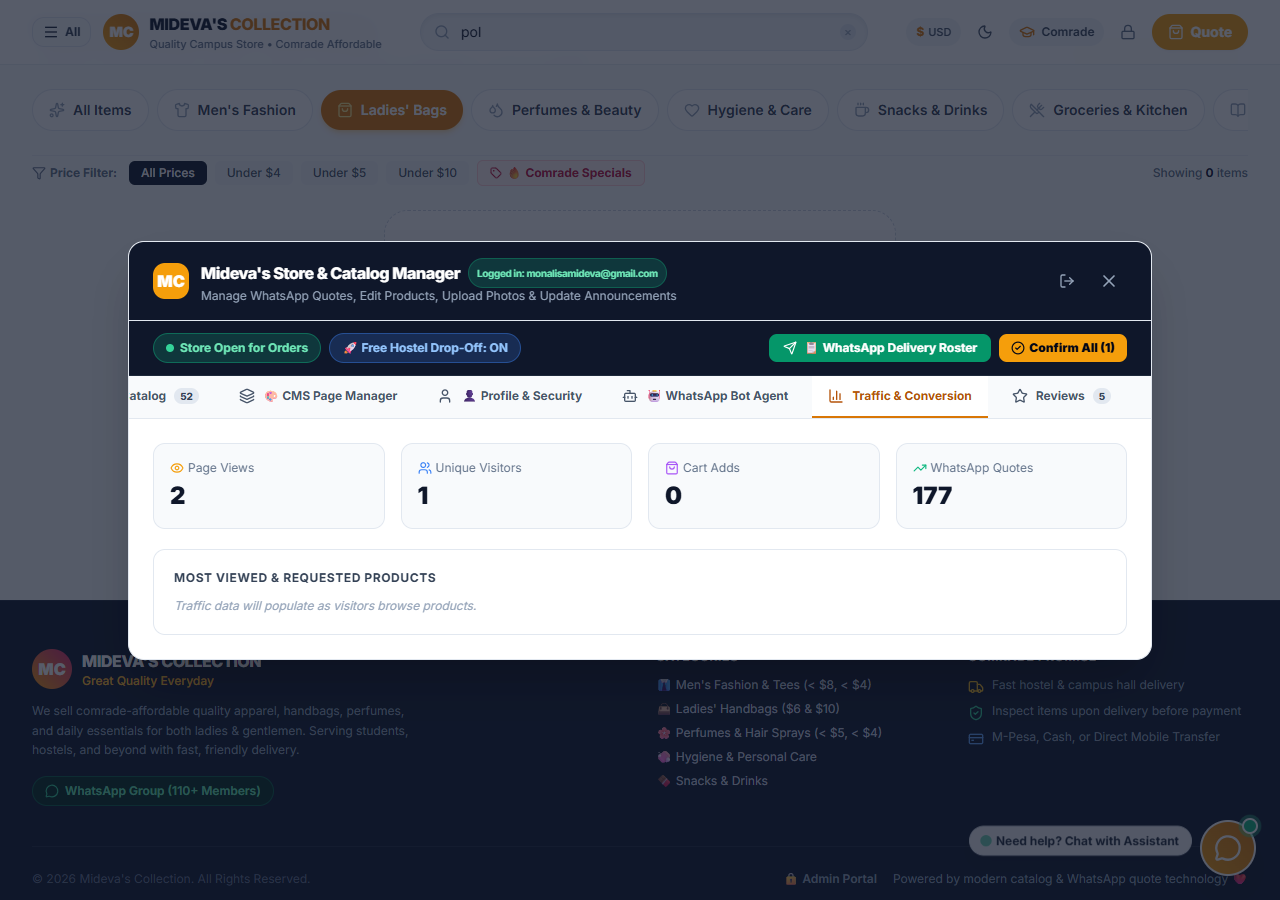
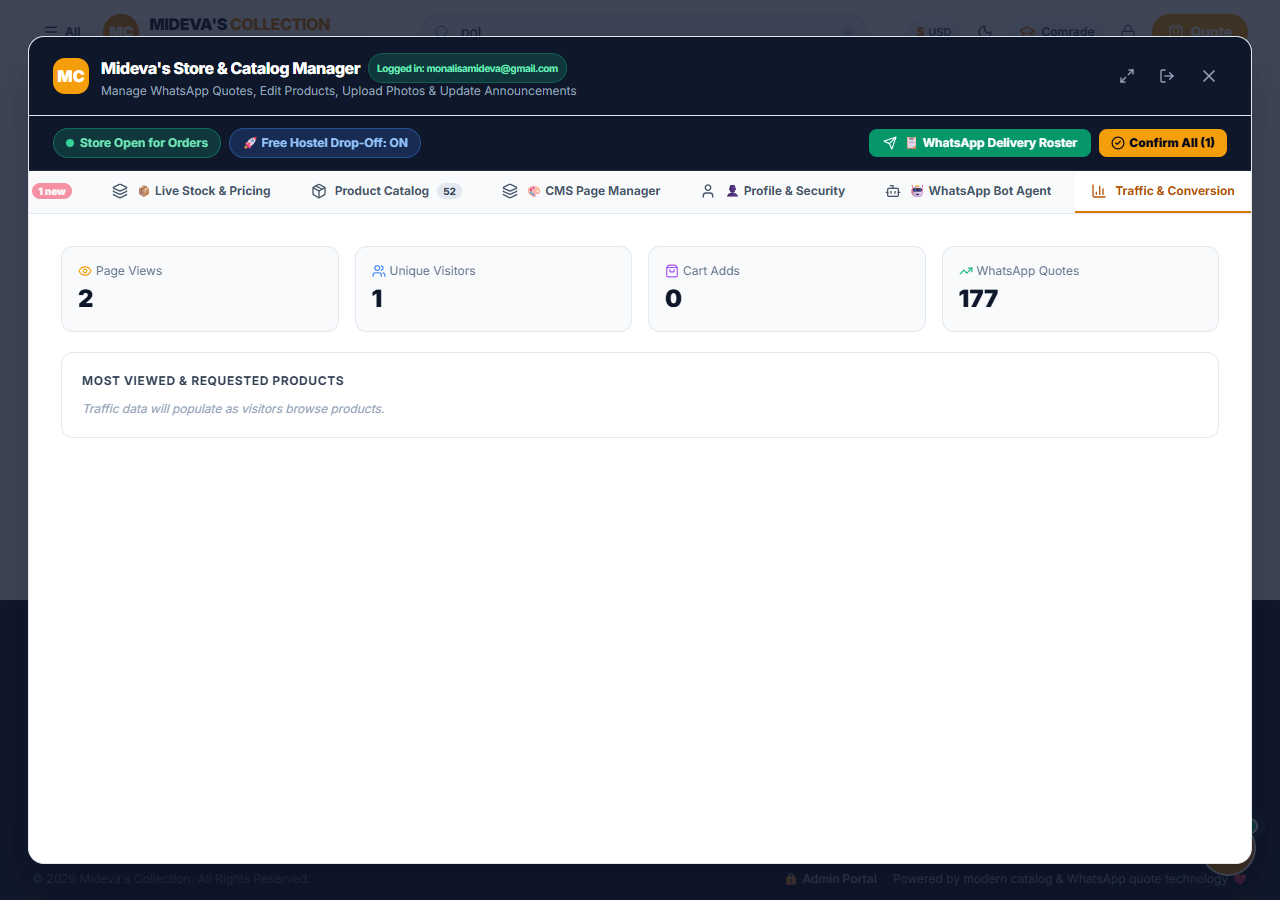
feat: expand admin dashboard to full-width expansive workspace with full-screen toggle

diff --git a/src/components/AdminModal.jsx b/src/components/AdminModal.jsx
@@ -24,7 +24,9 @@ import {
   Image as ImageIcon,
   Save,
   Globe,
-  Bell
+  Bell,
+  Maximize2,
+  Minimize2
 } from 'lucide-react';
 import { 
   CATEGORIES, 
@@ -71,6 +73,7 @@ export default function AdminModal({ isOpen, onClose, onCatalogUpdated }) {
   const [isAuthenticated, setIsAuthenticated] = useState(() => {
     return sessionStorage.getItem('midevas_admin_auth') === 'true';
   });
+  const [isFullScreen, setIsFullScreen] = useState(false);
   const [emailInput, setEmailInput] = useState(ADMIN_EMAIL);
   const [passcode, setPasscode] = useState('');
   const [authError, setAuthError] = useState(false);
@@ -512,24 +515,32 @@ export default function AdminModal({ isOpen, onClose, onCatalogUpdated }) {
   }).length;
 
   return (
-    <div className="fixed inset-0 z-50 overflow-y-auto">
+    <div className={`fixed inset-0 z-50 overflow-y-auto ${isFullScreen ? 'p-0' : 'p-1 sm:p-3 md:p-4'}`}>
       {/* Backdrop */}
       <div 
         onClick={onClose}
-        className="fixed inset-0 bg-slate-900/70 backdrop-blur-xs transition-opacity"
+        className="fixed inset-0 bg-slate-900/80 backdrop-blur-xs transition-opacity"
       />
 
-      <div className="flex min-h-full items-center justify-center p-3 sm:p-6 text-center">
-        <div className="relative transform overflow-hidden rounded-2xl bg-white text-left shadow-2xl transition-all w-full max-w-5xl border border-slate-200">
+      <div className={`flex min-h-full items-center justify-center text-center transition-all duration-200 ${
+        isFullScreen ? 'p-0' : 'p-1 sm:p-2 md:p-3'
+      }`}>
+        <div className={`relative transform overflow-hidden bg-white text-left shadow-2xl transition-all duration-200 flex flex-col border border-slate-200 ${
+          isFullScreen
+            ? 'w-screen h-screen min-h-screen rounded-none border-0'
+            : isAuthenticated
+              ? 'w-full max-w-[98vw] 2xl:max-w-[1720px] min-h-[92vh] rounded-2xl'
+              : 'w-full max-w-md rounded-2xl'
+        }`}>
           
           {/* Header */}
-          <div className="flex items-center justify-between border-b border-slate-200 bg-slate-900 text-white px-6 py-4">
+          <div className="flex items-center justify-between border-b border-slate-200 bg-slate-900 text-white px-4 sm:px-6 py-3.5 sm:py-4 flex-shrink-0">
             <div className="flex items-center gap-3">
-              <div className="w-9 h-9 rounded-xl bg-amber-500 text-white flex items-center justify-center font-black">
+              <div className="w-9 h-9 rounded-xl bg-amber-500 text-white flex items-center justify-center font-black flex-shrink-0 shadow-sm">
                 MC
               </div>
               <div>
-                <h3 className="text-base font-extrabold tracking-tight flex items-center gap-2">
+                <h3 className="text-sm sm:text-base font-extrabold tracking-tight flex items-center gap-2">
                   <span>Mideva's Store &amp; Catalog Manager</span>
                   {isAuthenticated && (
                     <span className="text-[10px] font-bold bg-emerald-500/20 text-emerald-300 border border-emerald-500/30 px-2 py-0.5 rounded-full">
@@ -537,21 +548,31 @@ export default function AdminModal({ isOpen, onClose, onCatalogUpdated }) {
                     </span>
                   )}
                 </h3>
-                <p className="text-xs text-slate-400">
+                <p className="text-[11px] sm:text-xs text-slate-400">
                   Manage WhatsApp Quotes, Edit Products, Upload Photos &amp; Update Announcements
                 </p>
               </div>
             </div>
 
-            <div className="flex items-center gap-2">
+            <div className="flex items-center gap-1.5 sm:gap-2">
               {isAuthenticated && (
-                <button
-                  onClick={handleLogout}
-                  title="Log out of Admin"
-                  className="p-2 text-slate-400 hover:text-rose-400 hover:bg-slate-800 rounded-lg transition"
-                >
-                  <LogOut className="w-4 h-4" />
-                </button>
+                <>
+                  <button
+                    type="button"
+                    onClick={() => setIsFullScreen((prev) => !prev)}
+                    title={isFullScreen ? "Restore Normal Size" : "Full Screen Expansive View"}
+                    className="p-2 text-slate-400 hover:text-white hover:bg-slate-800 rounded-lg transition"
+                  >
+                    {isFullScreen ? <Minimize2 className="w-4 h-4" /> : <Maximize2 className="w-4 h-4" />}
+                  </button>
+                  <button
+                    onClick={handleLogout}
+                    title="Log out of Admin"
+                    className="p-2 text-slate-400 hover:text-rose-400 hover:bg-slate-800 rounded-lg transition"
+                  >
+                    <LogOut className="w-4 h-4" />
+                  </button>
+                </>
               )}
               <button
                 onClick={onClose}
@@ -733,7 +754,9 @@ export default function AdminModal({ isOpen, onClose, onCatalogUpdated }) {
               </div>
 
               {/* Main Tab Panels */}
-              <div className="p-6 max-h-[72vh] overflow-y-auto space-y-6">
+              <div className={`p-4 sm:p-6 lg:p-8 flex-1 overflow-y-auto space-y-6 ${
+                isFullScreen ? 'max-h-[calc(100vh-140px)]' : 'max-h-[calc(92vh-140px)]'
+              }`}>
                 
                 {/* ═══════════════════════════════════════════ */}
                 {/* TAB 1: ORDERS & QUOTES                      */}
